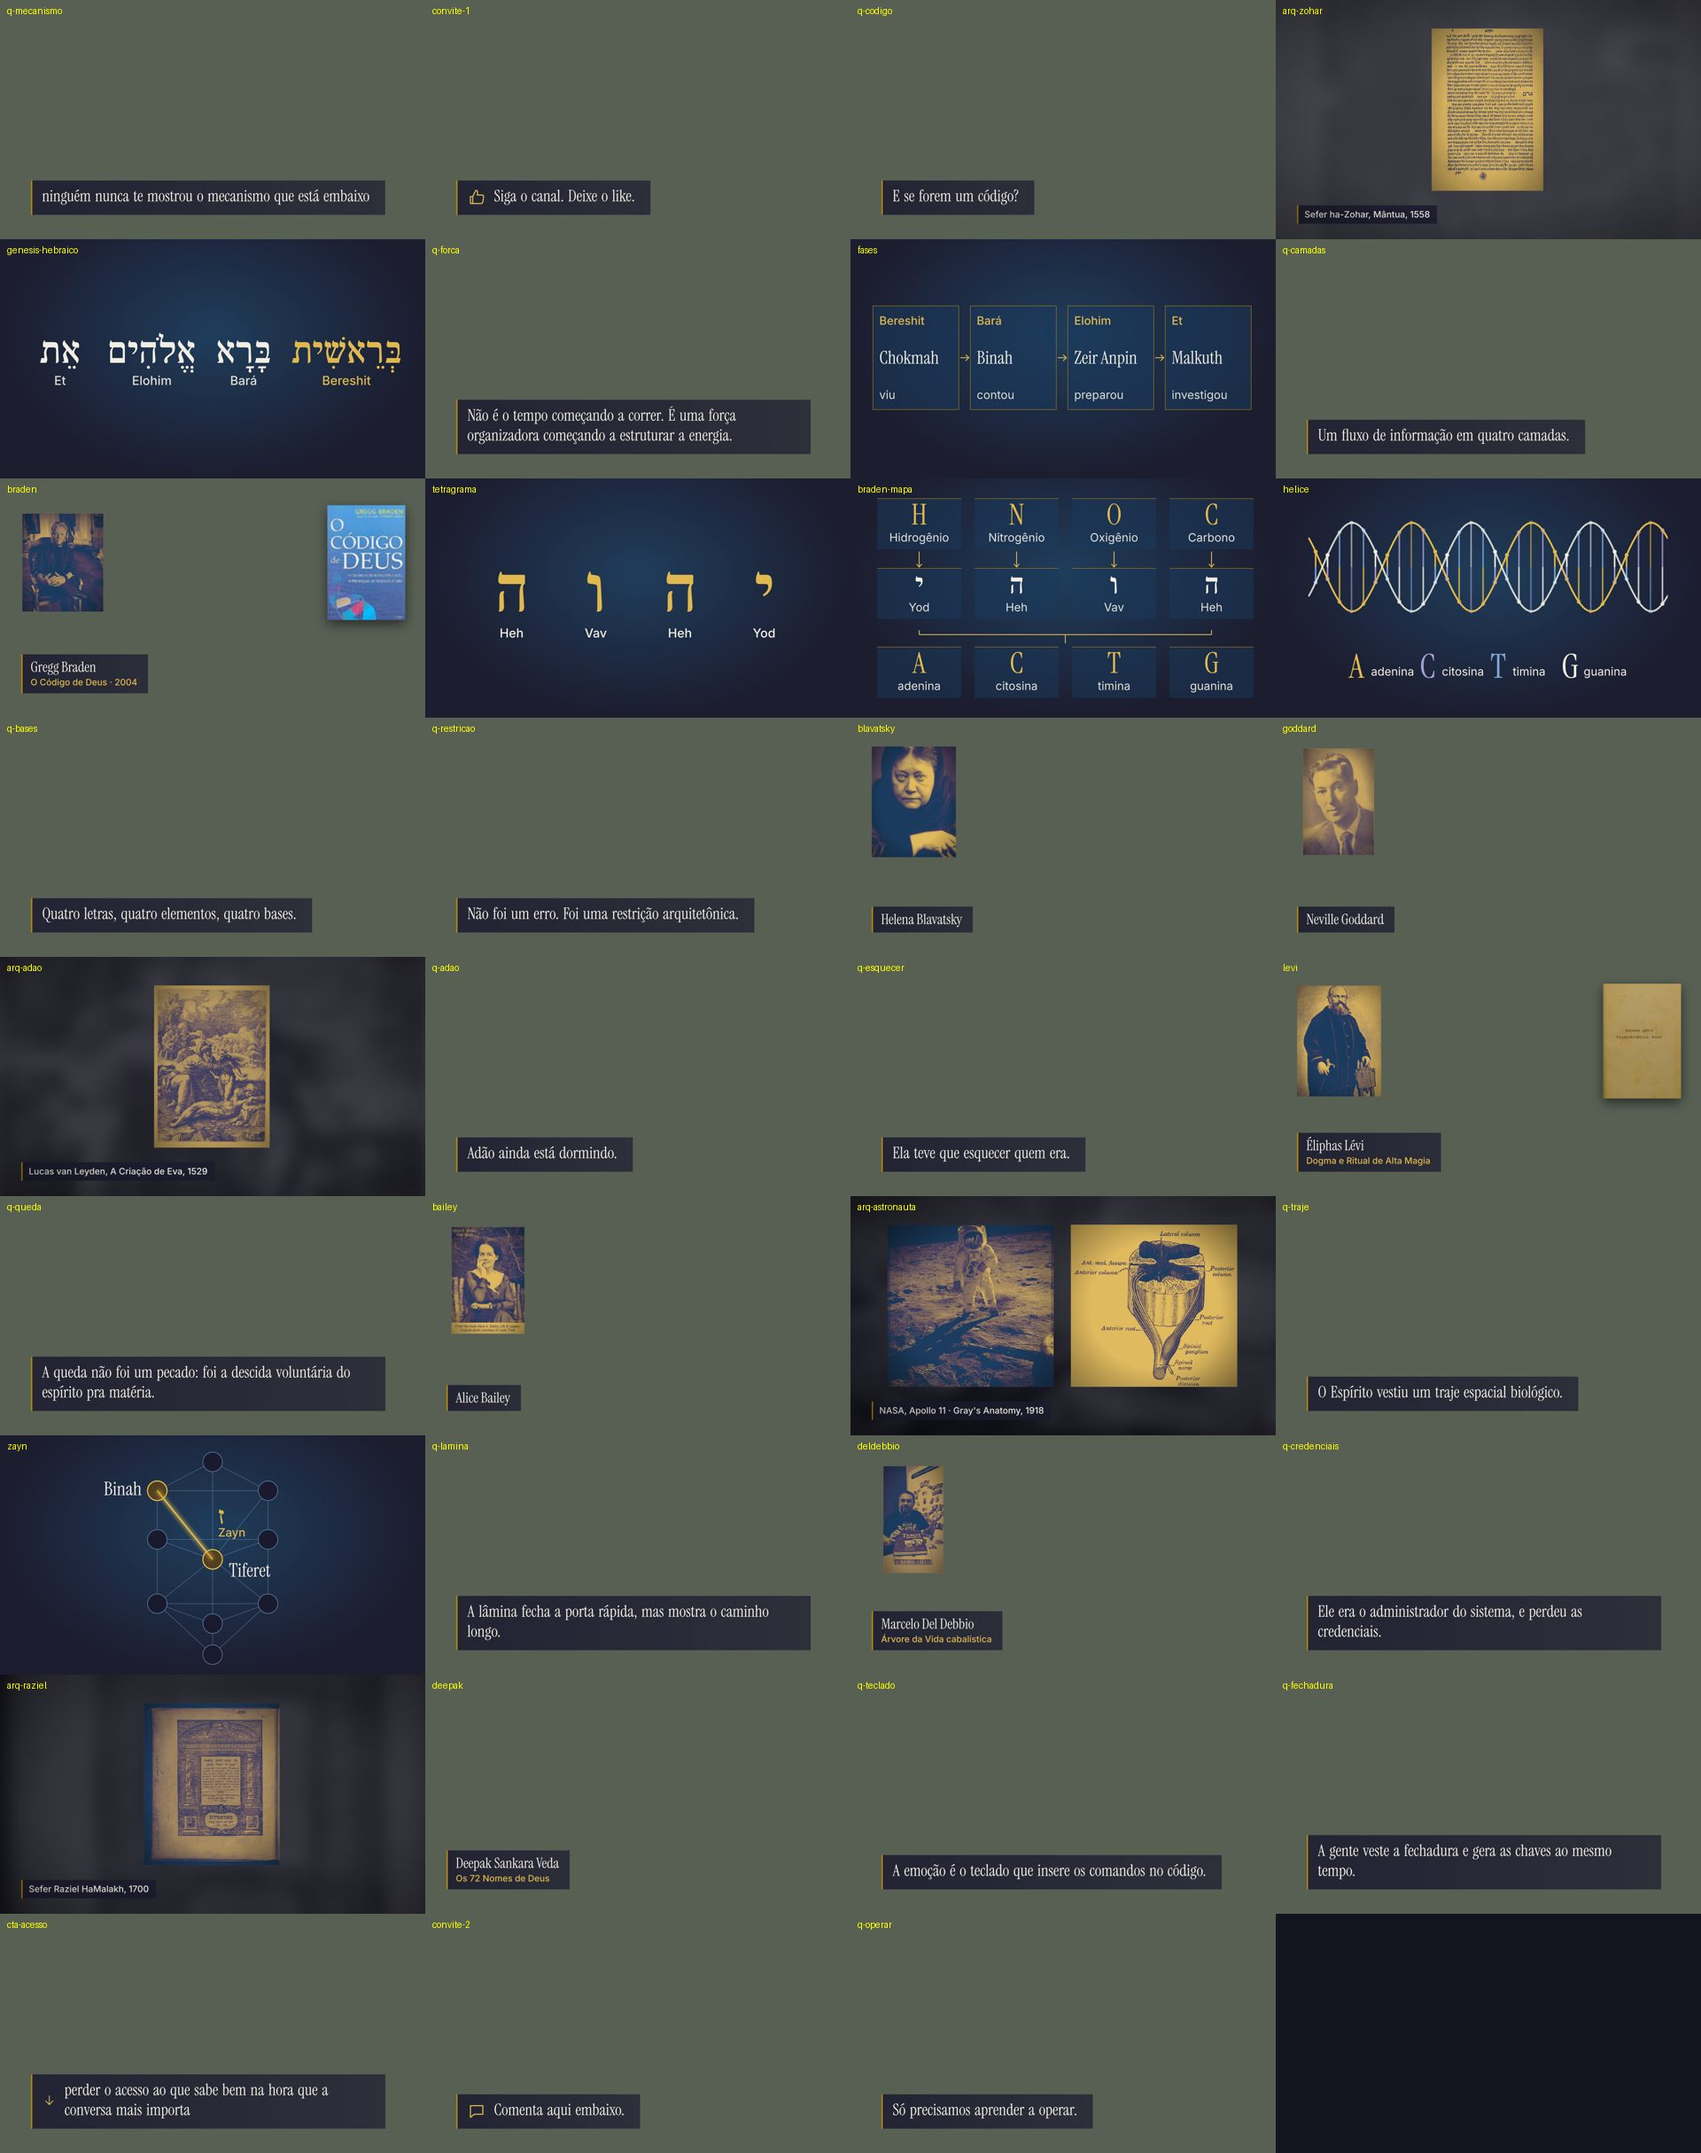
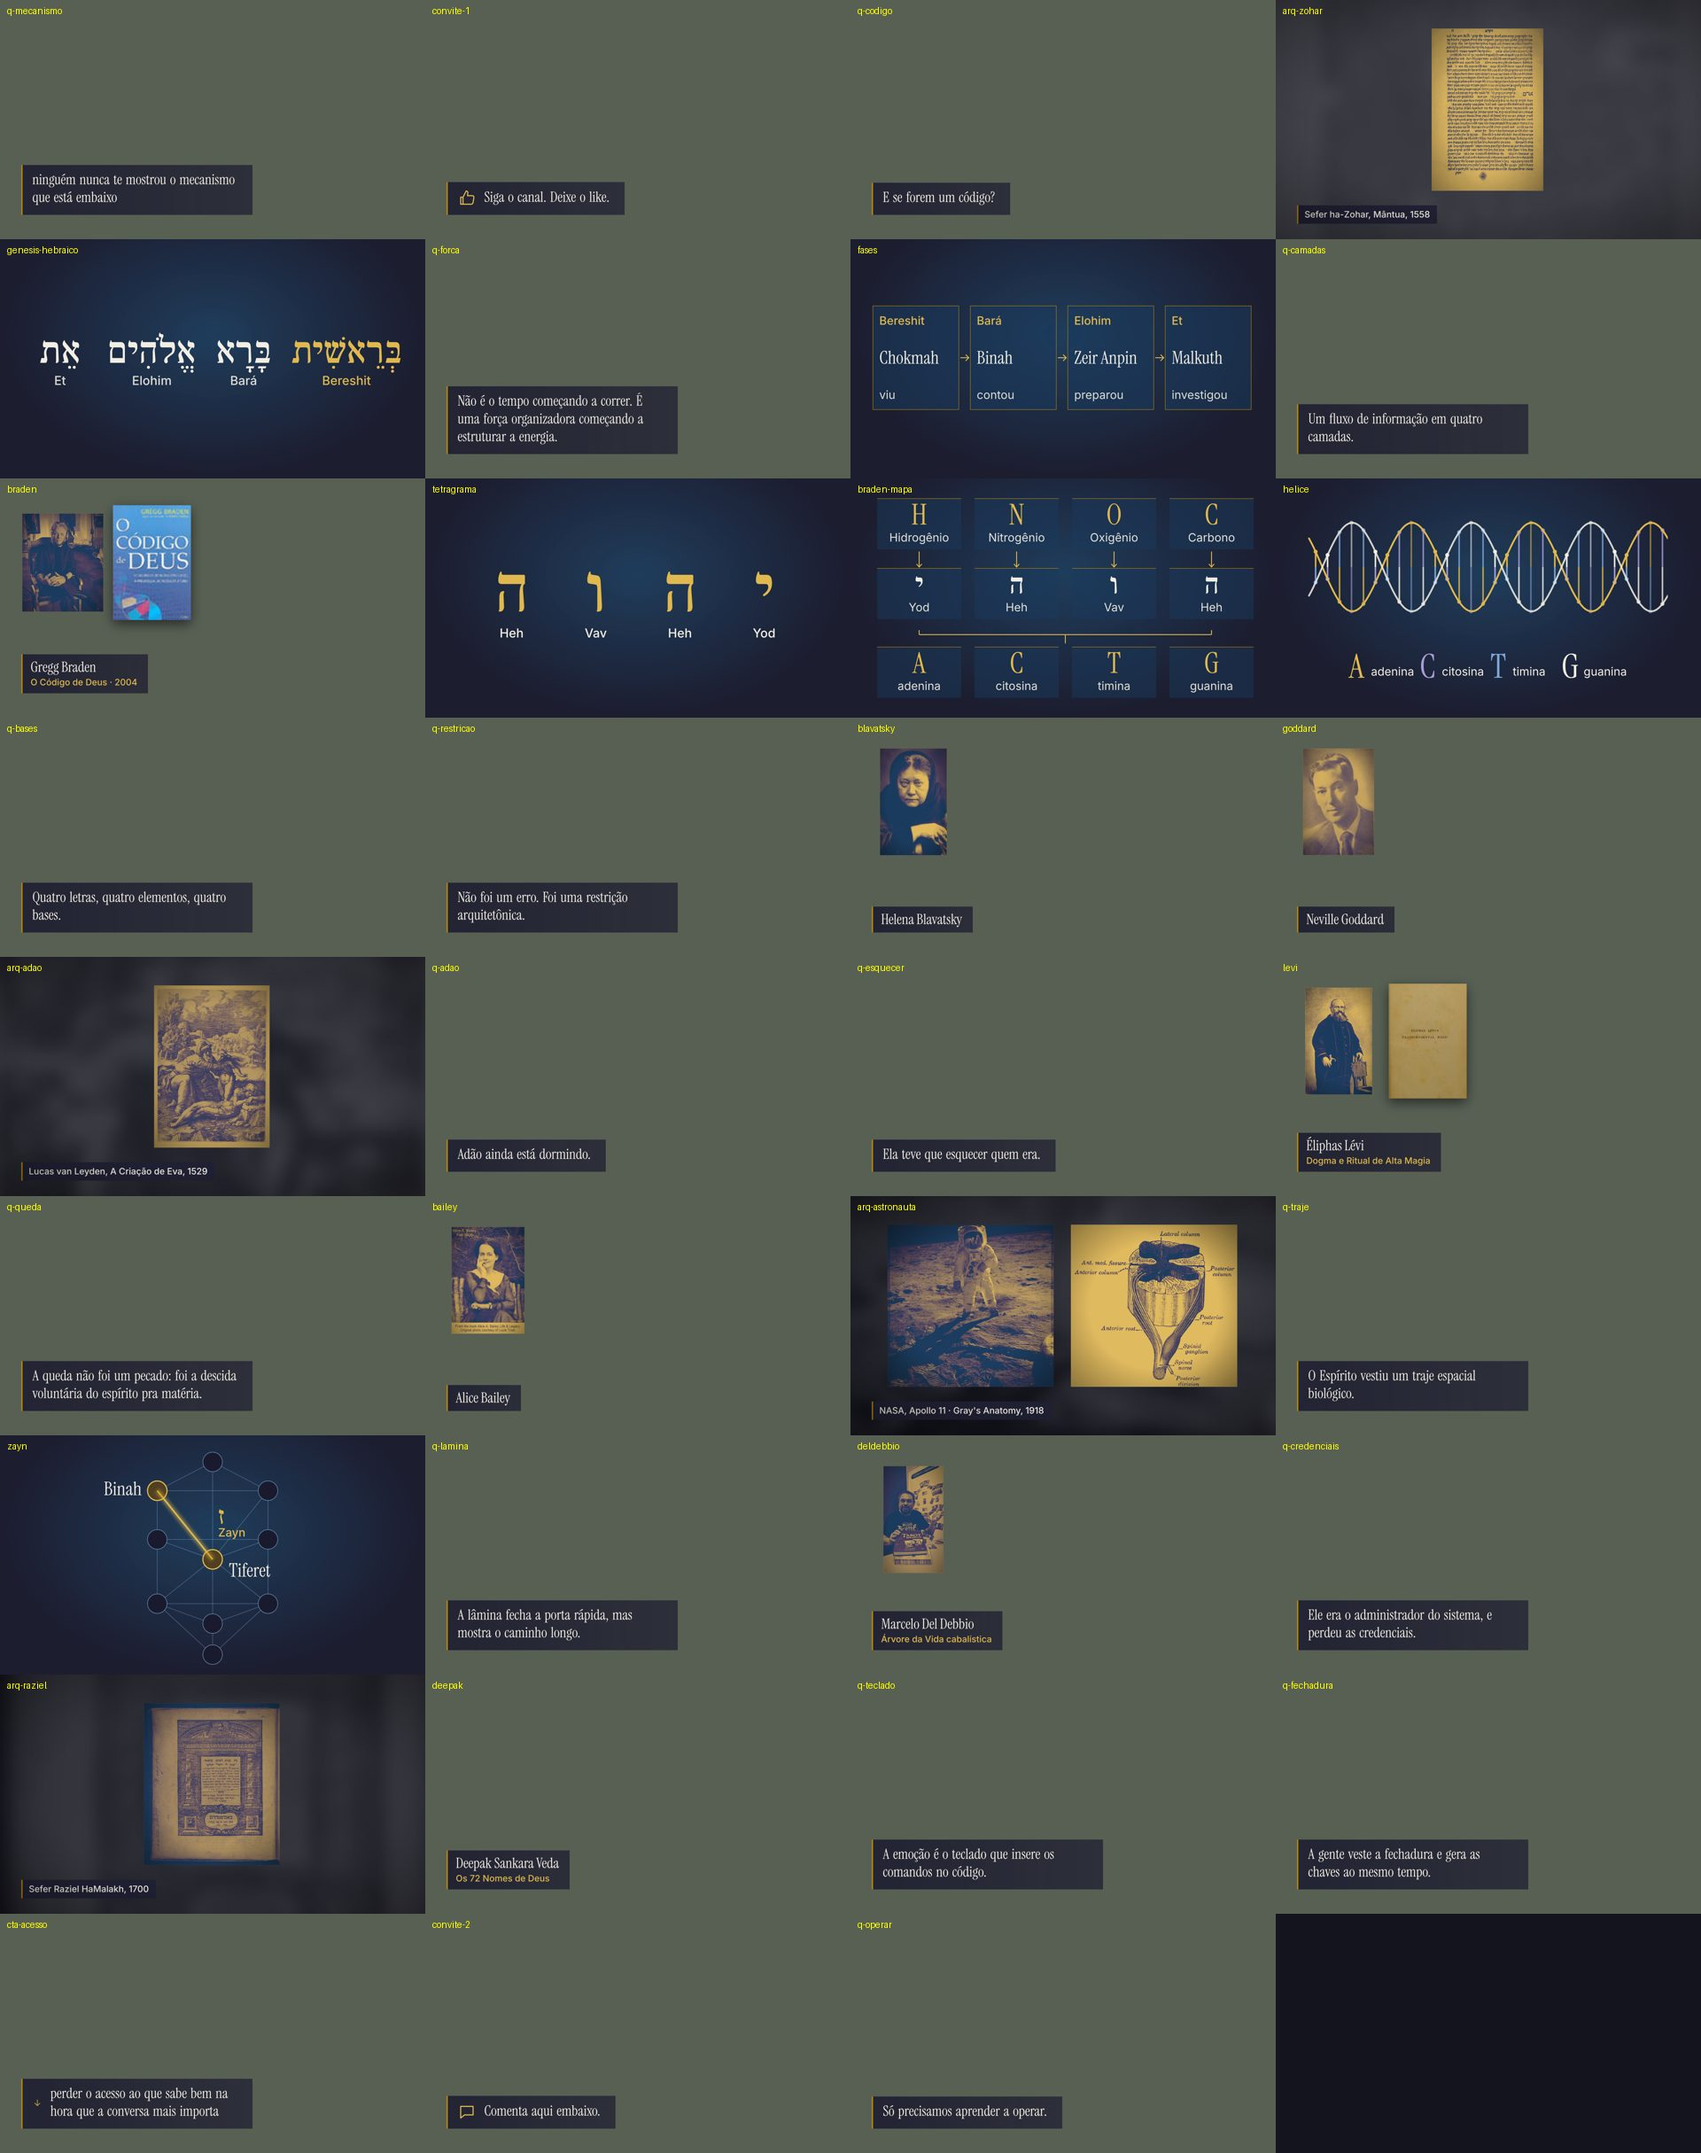
ep02: checagem dos 35 overlays (0 falhas) e contact sheet atualizado
Claude-Session: https://claude.ai/code/session_01CndevGGpiB9uVon2kpSMfi

diff --git a/podpoc/episodios/ep02/render/checagem.md b/podpoc/episodios/ep02/render/checagem.md
@@ -1,38 +1,38 @@
 # Checagem dos overlays
 
-Contraste medido contra o pior caso (placa sobre fundo branco). Zona do rosto: x 600-1320, y 100-700. Diagramas e cortes de arquivo cobrem o quadro de propósito.
+Contraste medido contra o pior caso (placa sobre fundo branco). Zona do Elvis (canto inferior direito): x >= 1180, y >= 460. Diagramas e cortes de arquivo ficam completos em tela cheia, sob o Elvis (de propósito); só texto, lower thirds, fotos e capas respeitam a zona.
 
 | Overlay | Tipo | Texto claro | Ouro | Zona do rosto | Resultado |
 |---|---|---|---|---|---|
 | q-mecanismo | quote | 9.6:1 | 5.9:1 | livre | ok |
 | convite-1 | invite | 9.6:1 | 5.9:1 | livre | ok |
-| q-codigo | quote | 9.6:1 | 5.9:1 | livre | ok |
-| arq-zohar | archive | 11.5:1 | 7.1:1 | cobre (corte) | ok |
-| genesis-hebraico | diagram | 13.3:1 | 8.2:1 | cobre (corte) | ok |
+| q-codigo | quote | 9.4:1 | 5.8:1 | livre | ok |
+| arq-zohar | archive | 12.2:1 | 7.5:1 | sob o Elvis | ok |
+| genesis-hebraico | diagram | 13.3:1 | 8.2:1 | sob o Elvis | ok |
 | q-forca | quote | 9.6:1 | 5.9:1 | livre | ok |
-| fases | diagram | 13.3:1 | 8.2:1 | cobre (corte) | ok |
+| fases | diagram | 13.3:1 | 8.2:1 | sob o Elvis | ok |
 | q-camadas | quote | 9.6:1 | 5.9:1 | livre | ok |
 | braden | author | 10.2:1 | 6.3:1 | livre | ok |
-| tetragrama | diagram | 13.3:1 | 8.2:1 | cobre (corte) | ok |
-| braden-mapa | diagram | 13.3:1 | 8.2:1 | cobre (corte) | ok |
-| helice | diagram | 13.3:1 | 8.2:1 | cobre (corte) | ok |
+| tetragrama | diagram | 13.3:1 | 8.2:1 | sob o Elvis | ok |
+| braden-mapa | diagram | 13.3:1 | 8.2:1 | sob o Elvis | ok |
+| helice | diagram | 13.3:1 | 8.2:1 | sob o Elvis | ok |
 | q-bases | quote | 9.6:1 | 5.9:1 | livre | ok |
 | q-restricao | quote | 9.6:1 | 5.9:1 | livre | ok |
 | blavatsky | author | 10.1:1 | 6.2:1 | livre | ok |
 | goddard | author | 10.1:1 | 6.2:1 | livre | ok |
-| arq-adao | archive | 14.1:1 | 8.7:1 | cobre (corte) | ok |
+| arq-adao | archive | 14.8:1 | 9.1:1 | sob o Elvis | ok |
 | q-adao | quote | 9.6:1 | 5.9:1 | livre | ok |
 | q-esquecer | quote | 9.6:1 | 5.9:1 | livre | ok |
 | levi | author | 10.2:1 | 6.3:1 | livre | ok |
 | q-queda | quote | 9.6:1 | 5.9:1 | livre | ok |
 | bailey | author | 9.9:1 | 6.1:1 | livre | ok |
-| arq-astronauta | archive | 15.2:1 | 9.4:1 | cobre (corte) | ok |
+| arq-astronauta | archive | 15.7:1 | 9.6:1 | sob o Elvis | ok |
 | q-traje | quote | 9.6:1 | 5.9:1 | livre | ok |
-| zayn | diagram | 13.3:1 | 8.2:1 | cobre (corte) | ok |
+| zayn | diagram | 13.3:1 | 8.2:1 | sob o Elvis | ok |
 | q-lamina | quote | 9.6:1 | 5.9:1 | livre | ok |
 | deldebbio | author | 10.2:1 | 6.3:1 | livre | ok |
 | q-credenciais | quote | 9.6:1 | 5.9:1 | livre | ok |
-| arq-raziel | archive | 15.1:1 | 9.3:1 | cobre (corte) | ok |
+| arq-raziel | archive | 16.4:1 | 10.1:1 | sob o Elvis | ok |
 | deepak | author | 10.2:1 | 6.3:1 | livre | ok |
 | q-teclado | quote | 9.6:1 | 5.9:1 | livre | ok |
 | q-fechadura | quote | 9.6:1 | 5.9:1 | livre | ok |
